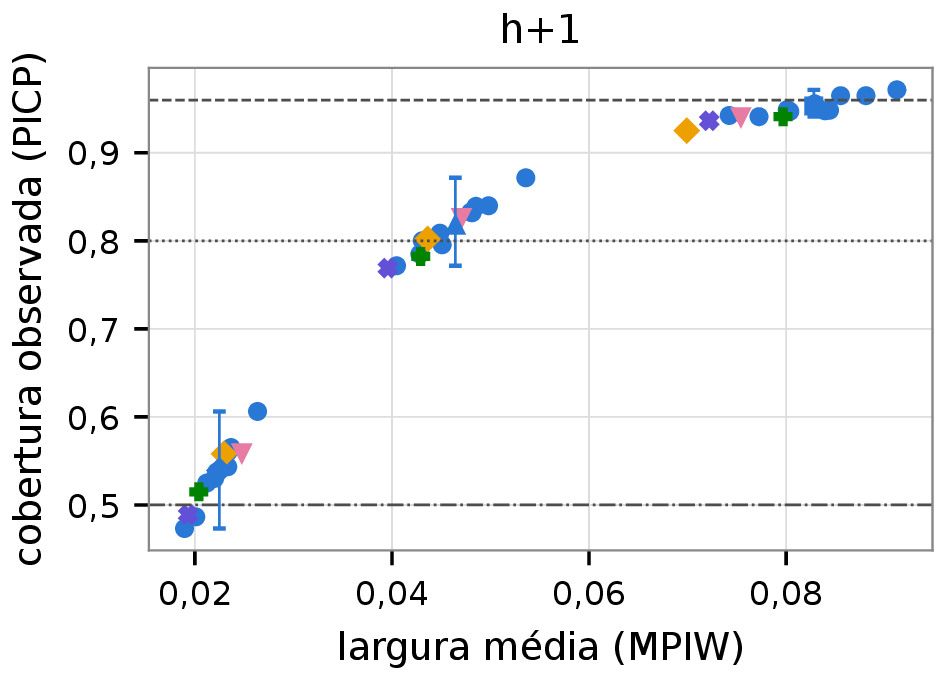
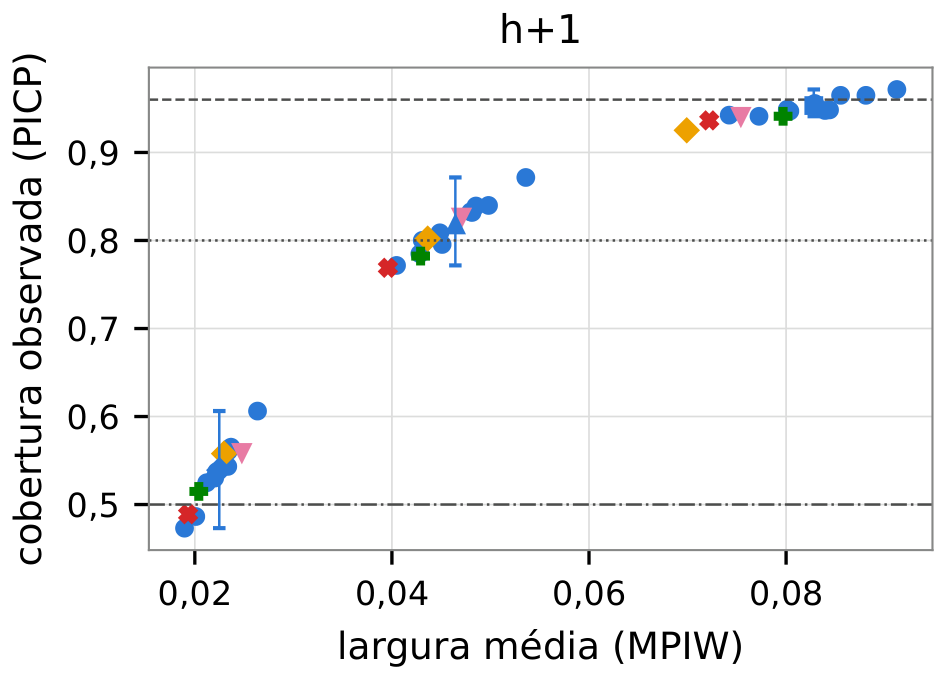
docs(tcc): GBM em vermelho no PICP x MPIW da reserva R5
- no projetor, o roxo do GBM se confundia com o azul do TFT; só o recorte do slide muda, a figura do texto fica igual
- recolore_picp_mpiw.py troca a cor no PDF vetorial e refaz o recorte de recortes.sh
- chave de cores e texto do slide atualizados para vermelho

Refs #272

diff --git a/text/apresentacao/recolore_picp_mpiw.py b/text/apresentacao/recolore_picp_mpiw.py
@@ -1,0 +1,39 @@
+"""Recorte do PICP x MPIW para o slide (reserva R5), com o GBM em vermelho.
+
+Na figura do texto (../figuras/picp_mpiw_plot.pdf, que não muda) o GBM (#6250d6,
+roxo) fica parecido demais com o TFT (#2a78d6, azul) no projetor. Aqui só a cor do
+GBM troca para vermelho (#d62728); dados, marcadores e demais cores ficam iguais. A
+chave de cores do slide usa a mesma cor.
+
+Rodar a partir de text/apresentacao/, depois de recortes.sh (que regrava o PNG):
+    uv run --no-project --with pymupdf python recolore_picp_mpiw.py
+"""
+
+import re
+
+import pymupdf
+
+SOURCE = "../figuras/picp_mpiw_plot.pdf"
+TARGET = "../figuras/slides/picp_mpiw_plot.png"
+CLIP = pymupdf.Rect(0, 0, 227.6, 166.96)  # o mesmo recorte de recortes.sh (painel h+1)
+GBM = re.compile(rb"0\.3843137255\s+0\.3137254902\s+0\.8392156863\s+(rg|RG)")  # #6250d6
+RED = "d62728"
+EXPECTED = 9  # preenchimentos e contornos do GBM nos dois painéis e na legenda
+
+
+def main() -> None:
+    rgb = " ".join(f"{int(RED[i : i + 2], 16) / 255:.4f}" for i in (0, 2, 4)).encode()
+    doc = pymupdf.open(SOURCE)
+    page = doc[0]
+    total = 0
+    for xref in page.get_contents():
+        stream, count = GBM.subn(lambda m: rgb + b" " + m.group(1), doc.xref_stream(xref))
+        total += count
+        doc.update_stream(xref, stream)
+    if total != EXPECTED:
+        raise SystemExit(f"esperava {EXPECTED} cores do GBM, achei {total}: a figura mudou?")
+    page.get_pixmap(dpi=300, clip=CLIP).save(TARGET)
+
+
+if __name__ == "__main__":
+    main()

diff --git a/text/apresentacao/apresentacao.tex b/text/apresentacao/apresentacao.tex
@@ -50,6 +50,9 @@
 \definecolor{cEWMA}{HTML}{E87BA4}
 \definecolor{cEmp}{HTML}{008300}
 \definecolor{cGBM}{HTML}{6250D6}
+% GBM em vermelho só no recorte do PICP x MPIW (recolore_picp_mpiw.py), para não se
+% confundir com o TFT no projetor.
+\definecolor{cGBMred}{HTML}{D62728}
 \definecolor{cObs}{HTML}{4D4D4D}
 \definecolor{cFold}{HTML}{999999}
 \definecolor{cF50}{HTML}{EF9A48}
@@ -799,7 +802,7 @@
       \centering
       \includegraphics[height=0.6\textheight]{slides/picp_mpiw_plot.png}
 
-      {\scriptsize \chpt{cTFT} TFT \enspace \chpt{cGBM} GBM \enspace \chpt{cEWMA} EWMA-vol
+      {\scriptsize \chpt{cTFT} TFT \enspace \chpt{cGBMred} GBM \enspace \chpt{cEWMA} EWMA-vol
         \enspace \chpt{cAR} AR(1) \enspace \mbox{\chpt{cEmp} quantis empíricos}\\
         TFT com barra: média das sementes (mín--máx)\\
         \mbox{nominal: \chln[dashed,line width=0.6pt]{cObs} 96\%
@@ -810,7 +813,7 @@
       \small
       \begin{itemize}
         \item Cada ponto: um modelo, um intervalo (50\%, 80\% ou 96\%).
-          TFT em azul, GBM em roxo, EWMA-vol em rosa, AR(1) em laranja,
+          TFT em azul, GBM em vermelho, EWMA-vol em rosa, AR(1) em laranja,
           quantis empíricos em verde.
         \item Linhas horizontais: as coberturas nominais.
         \item Intervalo de 80\%: GBM mais estreito (largura 0,0396) com cobertura
